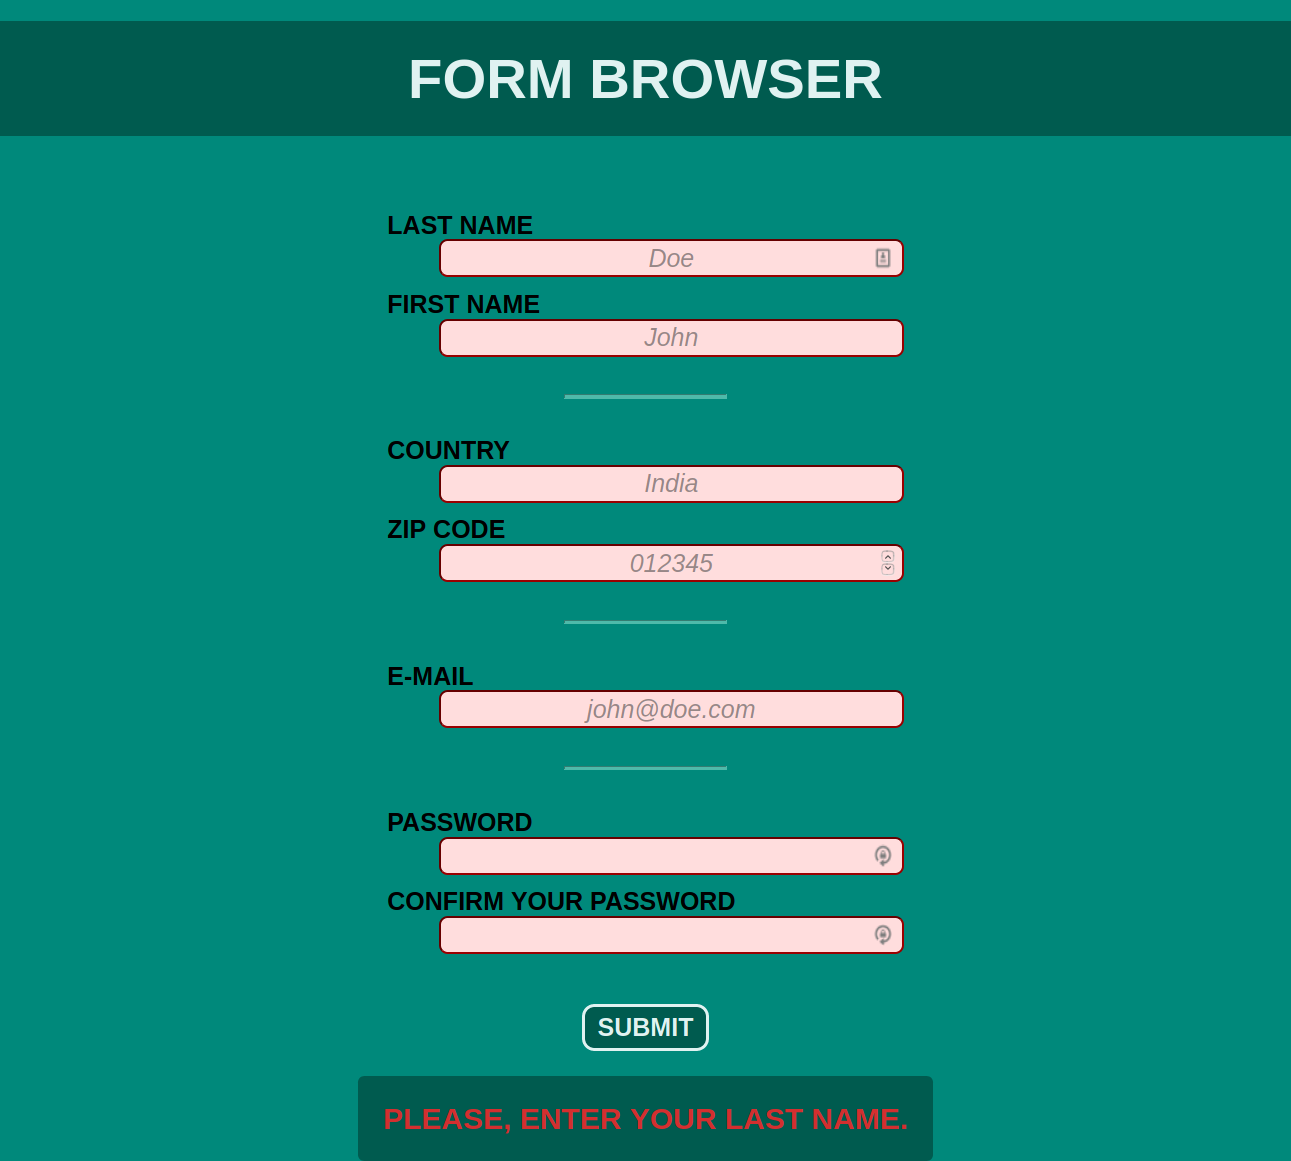
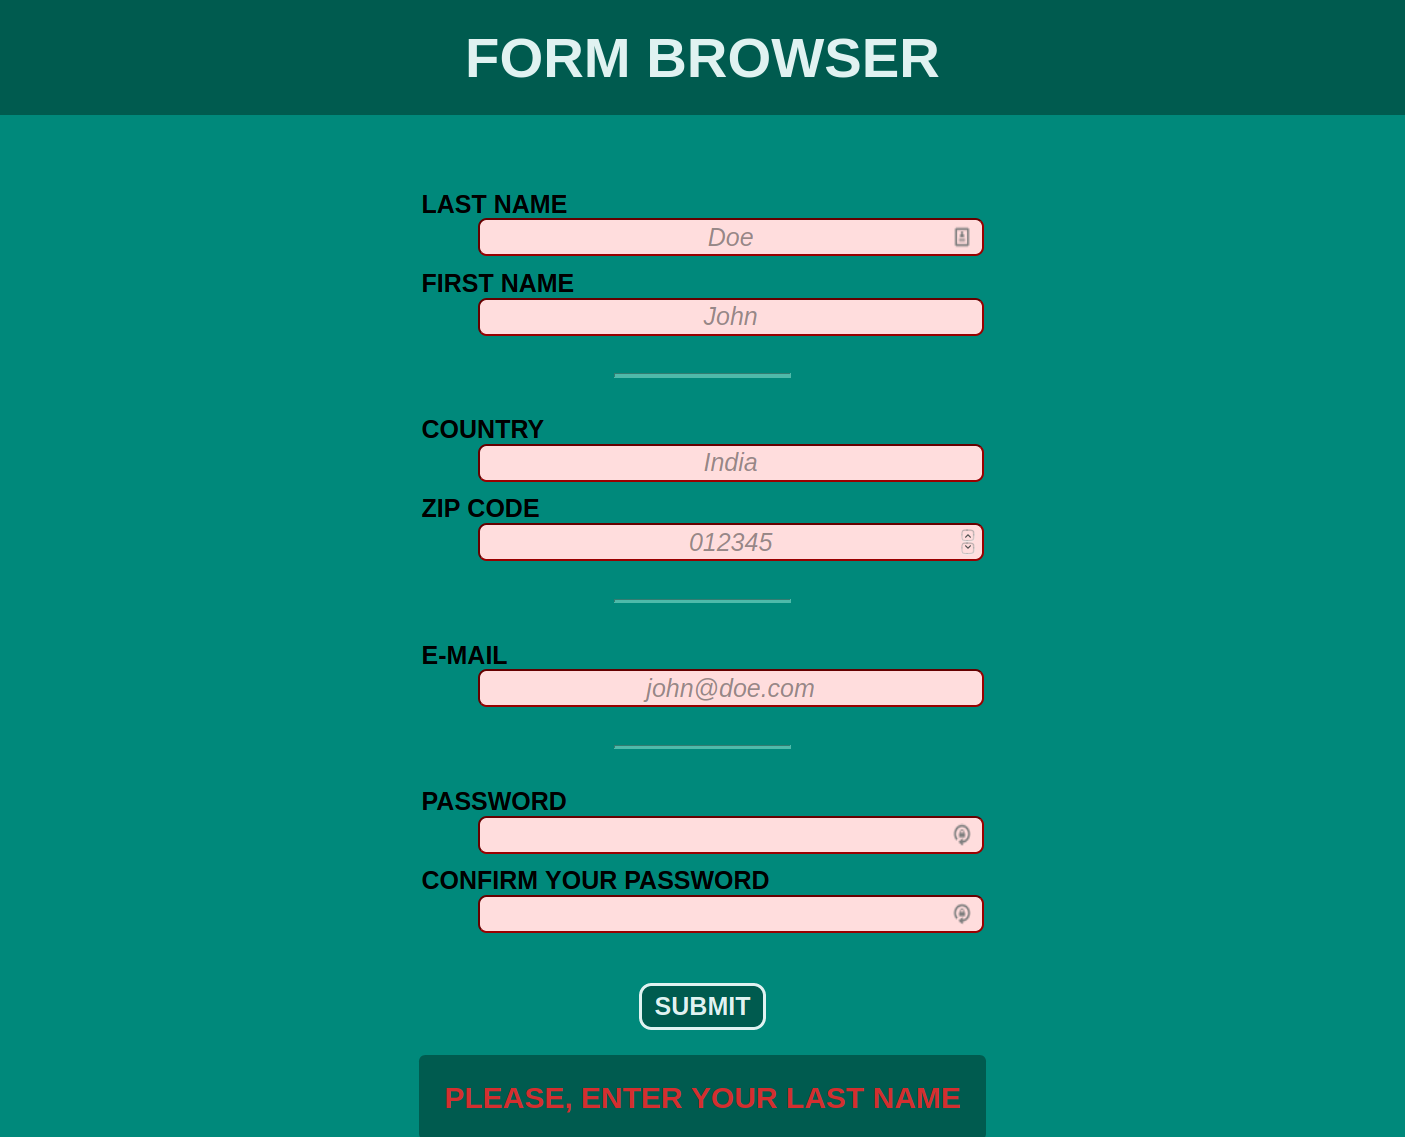
Update Project

diff --git a/src/index.js b/src/index.js
@@ -26,78 +26,78 @@ function blockDisplayErrorDiv() {
 function showError(eventTargetID) {
   if (eventTargetID === "last-name") {
     if (lastName.validity.valueMissing) {
-      errorsDiv.textContent = "You need to enter your Last Name.";
+      errorsDiv.textContent = "You need to enter your Last Name";
     } else if (lastName.validity.patternMismatch) {
-      errorsDiv.textContent = "Only alphabetic characters are allowed.";
+      errorsDiv.textContent = "Only alphabetic characters are allowed";
     } else if (lastName.validity.tooShort) {
-      errorsDiv.textContent = `Last Name should be at least ${lastName.minLength} characters.`;
+      errorsDiv.textContent = `Last Name should be at least ${lastName.minLength} characters`;
     } else if (lastName.validity.valid) {
-      errorsDiv.textContent = "Last Name is alright.";
+      errorsDiv.textContent = "Last Name is alright";
     }
   }
 
   if (eventTargetID === "first-name") {
     if (firstName.validity.valueMissing) {
-      errorsDiv.textContent = "You need to enter your First Name.";
+      errorsDiv.textContent = "You need to enter your First Name";
     } else if (firstName.validity.patternMismatch) {
-      errorsDiv.textContent = "Only alphabetic characters are allowed.";
+      errorsDiv.textContent = "Only alphabetic characters are allowed";
     } else if (firstName.validity.tooShort) {
-      errorsDiv.textContent = `First Name should be at least ${firstName.minLength} characters.`;
+      errorsDiv.textContent = `First Name should be at least ${firstName.minLength} characters`;
     } else if (firstName.validity.valid) {
-      errorsDiv.textContent = "First Name is alright.";
+      errorsDiv.textContent = "First Name is alright";
     }
   }
 
   if (eventTargetID === "country") {
     if (country.validity.valueMissing) {
-      errorsDiv.textContent = "You need to enter your Country.";
+      errorsDiv.textContent = "You need to enter your Country";
     } else if (country.validity.patternMismatch) {
-      errorsDiv.textContent = "Only alphabetic characters are allowed.";
+      errorsDiv.textContent = "Only alphabetic characters are allowed";
     } else if (country.validity.tooShort) {
-      errorsDiv.textContent = `Country's Name should be at least ${country.minLength} characters.`;
+      errorsDiv.textContent = `Country's Name should be at least ${country.minLength} characters`;
     } else if (country.validity.valid) {
-      errorsDiv.textContent = "Country's Name is alright.";
+      errorsDiv.textContent = "Country's Name is alright";
     }
   }
 
   if (eventTargetID === "zip-code") {
     if (zipCode.validity.valueMissing) {
-      errorsDiv.textContent = "You need to enter your Zip Code.";
+      errorsDiv.textContent = "You need to enter your Zip Code";
     } else if (
       zipCode.validity.rangeUnderflow
       || zipCode.validity.rangeOverflow
     ) {
-      errorsDiv.textContent = "Zip-Code must be 5 numbers long.";
+      errorsDiv.textContent = "Zip-Code must be 5 numbers long";
     } else if (zipCode.validity.valid) {
-      errorsDiv.textContent = "Zip-Code is alright.";
+      errorsDiv.textContent = "Zip-Code is alright";
     }
   }
 
   if (eventTargetID === "e-mail") {
     if (eMail.validity.valueMissing) {
-      errorsDiv.textContent = "You need to enter your E-Mail address.";
+      errorsDiv.textContent = "You need to enter your E-Mail address";
     } else if (eMail.validity.typeMismatch) {
-      errorsDiv.textContent = "Entered value needs to be an E-Mail address.";
+      errorsDiv.textContent = "Entered value needs to be an E-Mail address";
     } else if (eMail.validity.tooShort) {
-      errorsDiv.textContent = `E-Mail should be at least ${eMail.minLength} characters.`;
+      errorsDiv.textContent = `E-Mail should be at least ${eMail.minLength} characters`;
     } else if (eMail.validity.valid) {
-      errorsDiv.textContent = "E-Mail is alright.";
+      errorsDiv.textContent = "E-Mail is alright";
     }
   }
 
   if (eventTargetID === "password") {
     if (password.validity.tooShort) {
-      errorsDiv.textContent = `Password should be at least ${password.minLength} characters. You entered ${password.value.length} yet.`;
+      errorsDiv.textContent = `Password should be at least ${password.minLength} characters. You entered ${password.value.length} yet`;
     } else if (password.validity.valid) {
-      errorsDiv.textContent = "Password is alright.";
+      errorsDiv.textContent = "Password is alright";
     }
   }
 
   if (eventTargetID === "confirm-password") {
     if (confirmPassword.validity.tooShort) {
-      errorsDiv.textContent = `Confirmed Password should be at least ${confirmPassword.minLength} characters; you entered ${confirmPassword.value.length}.`;
+      errorsDiv.textContent = `Confirmed Password should be at least ${confirmPassword.minLength} characters; you entered ${confirmPassword.value.length}`;
     } else if (confirmPassword.validity.valid) {
-      errorsDiv.textContent = "Confirmed Password is alright.";
+      errorsDiv.textContent = "Confirmed Password is alright";
     }
   }
 }
@@ -114,11 +114,11 @@ allLabels.forEach((item) => {
     blockDisplayErrorDiv();
     if (eventTargetID === "password" && !password.validity.tooShort) {
       if (confirmPassword.value !== password.value) {
-        errorsDiv.textContent = "Passwords don't match.";
+        errorsDiv.textContent = "Passwords don't match";
         return;
       }
       if (confirmPassword.value === password.value) {
-        errorsDiv.textContent = "Passwords match.";
+        errorsDiv.textContent = "Passwords match";
         return;
       }
     }
@@ -128,11 +128,11 @@ allLabels.forEach((item) => {
       && !confirmPassword.validity.tooShort
     ) {
       if (confirmPassword.value !== password.value) {
-        errorsDiv.textContent = "Passwords don't match.";
+        errorsDiv.textContent = "Passwords don't match";
         return;
       }
       if (confirmPassword.value === password.value) {
-        errorsDiv.textContent = "Passwords match.";
+        errorsDiv.textContent = "Passwords match";
         return;
       }
     }
@@ -150,7 +150,7 @@ allLabels.forEach((item) => {
       && confirmPassword.value === password.value
     ) {
       errorsDiv.innerHTML = ""; // Reset the content of the message
-      errorsDiv.textContent = "You can submit your form.";
+      errorsDiv.textContent = "You can submit your form";
     } else {
       // If there is still an error, show the correct error
       showError(eventTargetID);
@@ -192,7 +192,7 @@ allLabels.forEach((item) => {
       }
       // Set the Input indication Message
       errorsDiv.innerHTML = ""; // Reset the content of the message
-      errorsDiv.textContent = `Please, enter your ${eventTargetID}.`;
+      errorsDiv.textContent = `Please, enter your ${eventTargetID}`;
       blockDisplayErrorDiv();
     }
   });
@@ -214,7 +214,7 @@ allLabels.forEach((item) => {
       // In case there is an error message visible, if the field
       // is valid, remove the error message.
       errorsDiv.innerHTML = ""; // Reset the content of the message
-      errorsDiv.textContent = "You can submit your form.";
+      errorsDiv.textContent = "You can submit your form";
     }
   });
 });
@@ -234,6 +234,6 @@ submitForm.addEventListener("submit", (event) => {
     errorsDiv.innerHTML = "Passwords don't match";
   } else if (!submitForm.checkValidity()) {
     // If there is still an error, show the correct error
-    errorsDiv.innerHTML = "Please fill all the field with correct values.";
+    errorsDiv.innerHTML = "Please fill all the field with correct values";
   }
 });

diff --git a/src/styles/index.css b/src/styles/index.css
@@ -75,7 +75,6 @@ label {
     align-self: flex-start;
 }
 
-
 input {
     align-self: center;
     width: 100%;
@@ -88,7 +87,6 @@ input::placeholder {
     font-style: italic;
     text-align: center;
 }
-
 
 @media (min-width: 600px) {
     input {
